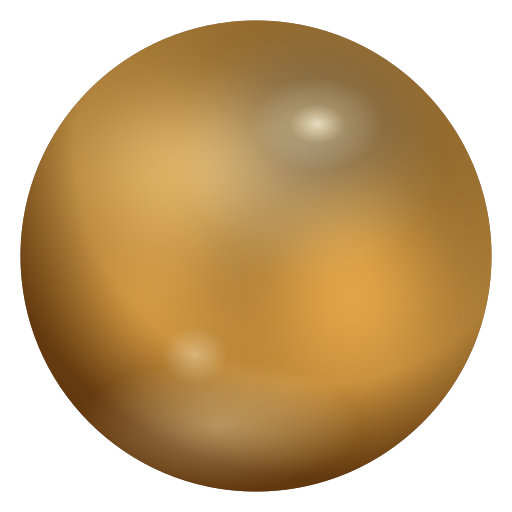
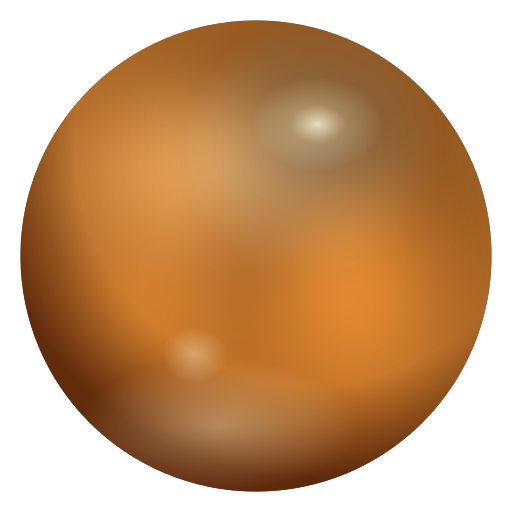
Orb: more orange, everywhere it is drawn
The owner wanted the Pluclair orb more orange before the next APK. The
live orb's family moves on both apps (--orb-c1/2/3 and the phone's
C1/2/3): body 33.5° → 29° at 96% saturation (#fa891e), light 40° → 35°,
shadow 24° → 18°. The landing's WebGL orb, the marketing bloom and the
OG card's glow follow it, and every launcher, tab, home-screen and splash
icon is rendered again from scripts/build-brand-icons.mjs (the auth
e-mails load icon-192 from the site). Android's notification tint moves
from the accent to the orb's orange.

The accent (#ecb25e) stays: the orb is the logo, the accent is the
interface. The body now sits 2° off --warning, six points darker.

Changed region(s): [[0.5312, 0.4688, 0.8438, 0.7812], [0.2188, 0.5, 0.4062, 0.6875]]

diff --git a/apps/web/app/globals.css b/apps/web/app/globals.css
@@ -860,9 +860,9 @@ html:has(.marketing-shell) {
 .marketing-bloom {
   background: radial-gradient(
     closest-side,
-    rgba(244, 162, 58, 0.32) 0%,
-    rgba(244, 162, 58, 0.13) 42%,
-    rgba(244, 162, 58, 0.04) 64%,
+    rgba(250, 137, 30, 0.32) 0%,
+    rgba(250, 137, 30, 0.13) 42%,
+    rgba(250, 137, 30, 0.04) 64%,
     transparent 78%
   );
 }
@@ -898,16 +898,18 @@ html:has(.marketing-shell) {
      Orange-gold since October 2026, at the owner's asking: c2 moved from
      36° to 33.5° of hue and to 89% saturation, c1 followed it to 40°, and
      c3 to 24°, because a warm body darkens towards red rather than towards
-     its own hue. The floor on all three is `--warning` at 27°, which marks a
-     row waiting on a decision: the body sits 6.5° off it and well below its
-     lightness, so an 8px dot in the app is still its own colour next to the
-     mark in the header.
+     its own hue. `--primary` moved with it, to #ecb25e, a step paler than
+     the body so that it still reads as the accent of an interface rather
+     than as light.
 
-     `--primary` moved with it, to #ecb25e, a step paler than the body so
-     that it still reads as the accent of an interface rather than as light. */
-  --orb-c1: 255 217 140;
-  --orb-c2: 244 162 58;
-  --orb-c3: 106 48 10;
+     Orange since 2026-10-26, asked for again before an APK: c2 to 29° and
+     96% saturation, c1 to 35°, c3 to 18°. The accent stayed where it was.
+     The body now sits 2° off `--warning` (27°), which marks a row waiting on
+     a decision; it is six points darker, and the mark and an 8px dot are
+     rarely side by side. */
+  --orb-c1: 255 200 122;
+  --orb-c2: 250 137 30;
+  --orb-c3: 105 36 7;
   /* One churn of the interior, one turn of the near cloud layer, one of the
      far one against it. The interior walks `--angle` through five conic
      sweeps; each layer then carries its masses round bodily, in opposite

diff --git a/apps/mobile/src/components/Orb.tsx b/apps/mobile/src/components/Orb.tsx
@@ -125,10 +125,13 @@ const WANDER = 0.055;
  * 24°, because a warm body darkens towards red rather than towards its own
  * hue. `primary` in `theme/tokens.ts` moved with it, to #ecb25e, so the
  * accent and the mark read as one brand colour.
+ *
+ * Orange since 2026-10-26, at the owner's asking: the body to 29° and 96%
+ * saturation, the light to 35°, the shadow to 18°. The accent stayed.
  */
-const C1 = "#ffd98c";
-const C2 = "#f4a23a";
-const C3 = "#6a300a";
+const C1 = "#ffc87a";
+const C2 = "#fa891e";
+const C3 = "#692407";
 
 /** Alpha times glass, clamped — 2.6 × 0.72 would otherwise ask for 187%. */
 const a = (alpha: number, glass: number) => Math.min(1, alpha * glass);

diff --git a/apps/web/lib/og/og-card.tsx b/apps/web/lib/og/og-card.tsx
@@ -98,7 +98,7 @@ export async function ogCard({
             display: "flex",
             borderRadius: 9999,
             boxShadow:
-              "0 0 140px 40px rgba(236, 178, 94, 0.30), 0 0 320px 120px rgba(236, 178, 94, 0.10)",
+              "0 0 140px 40px rgba(250, 137, 30, 0.30), 0 0 320px 120px rgba(250, 137, 30, 0.10)",
           }}
         />
         {/* eslint-disable-next-line @next/next/no-img-element -- drawn by next/og, not a page */}

diff --git a/apps/web/components/marketing/landing/GoldOrb.tsx b/apps/web/components/marketing/landing/GoldOrb.tsx
@@ -69,8 +69,9 @@ void main() {
   vec2 q = (p - centre) / radius;
   float r = length(q);
 
-  vec3 gold = vec3(0.925, 0.698, 0.369);
-  vec3 ember = vec3(0.62, 0.24, 0.07);
+  // The orb's orange (--orb-c2, lit) and the red it falls to in shadow.
+  vec3 gold = vec3(0.968, 0.588, 0.232);
+  vec3 ember = vec3(0.594, 0.207, 0.066);
   vec3 colour = vec3(0.0);
   float alpha = 0.0;
 

diff --git a/apps/mobile/DESIGN.md b/apps/mobile/DESIGN.md
@@ -169,7 +169,8 @@ modifiers keep working, plus the mobile-only hairline weights.
 
 - **Lamplit Gold** (`#ecb25e`): The accent, the primary button's fill, and the
   colour of a savings amount — an orange-gold since October 2026, moved with
-  the orb. At 10:1 on this ground it reads as text as well as fill.
+  the orb; the orb went further to orange on 2026-10-26 and the accent stayed.
+  At 10:1 on this ground it reads as text as well as fill.
 - **Lamplit Gold Hover** (`#f2c27a`): The pressed and hovered state of a gold
   control.
 
@@ -401,7 +402,7 @@ as Catégories is.
 
 ### The Orb
 
-The mark is a glass sphere with orange-gold clouds turning inside it
+The mark is a glass sphere with orange clouds turning inside it
 (`components/Orb.tsx`, the twin of the web's `.pc-orb`), and it breathes: a
 halo of the body colour swells around it and a warm light rises inside the
 shell, in and out over a little under six seconds (`INHALE`, the web's

diff --git a/apps/web/DESIGN.md b/apps/web/DESIGN.md
@@ -223,7 +223,9 @@ the colour is in what it paints on.
 
 - **Lamplit Gold** (`#ecb25e`): The only warm thing in the system and the only
   colour permitted to carry emphasis — an orange-gold since October 2026,
-  moved with the orb so the accent and the mark read as one brand colour. At
+  moved with the orb so the accent and the mark read as one brand colour. The
+  orb went further to orange on 2026-10-26 (`--orb-c2` at 29°) and the accent
+  stayed here, a step paler and more gold than the mark. At
   10:1 against the page it is legible as text, not just as fill, so it serves
   as both the primary button's ground and an emphatic figure's ink. Also the
   focus ring.
